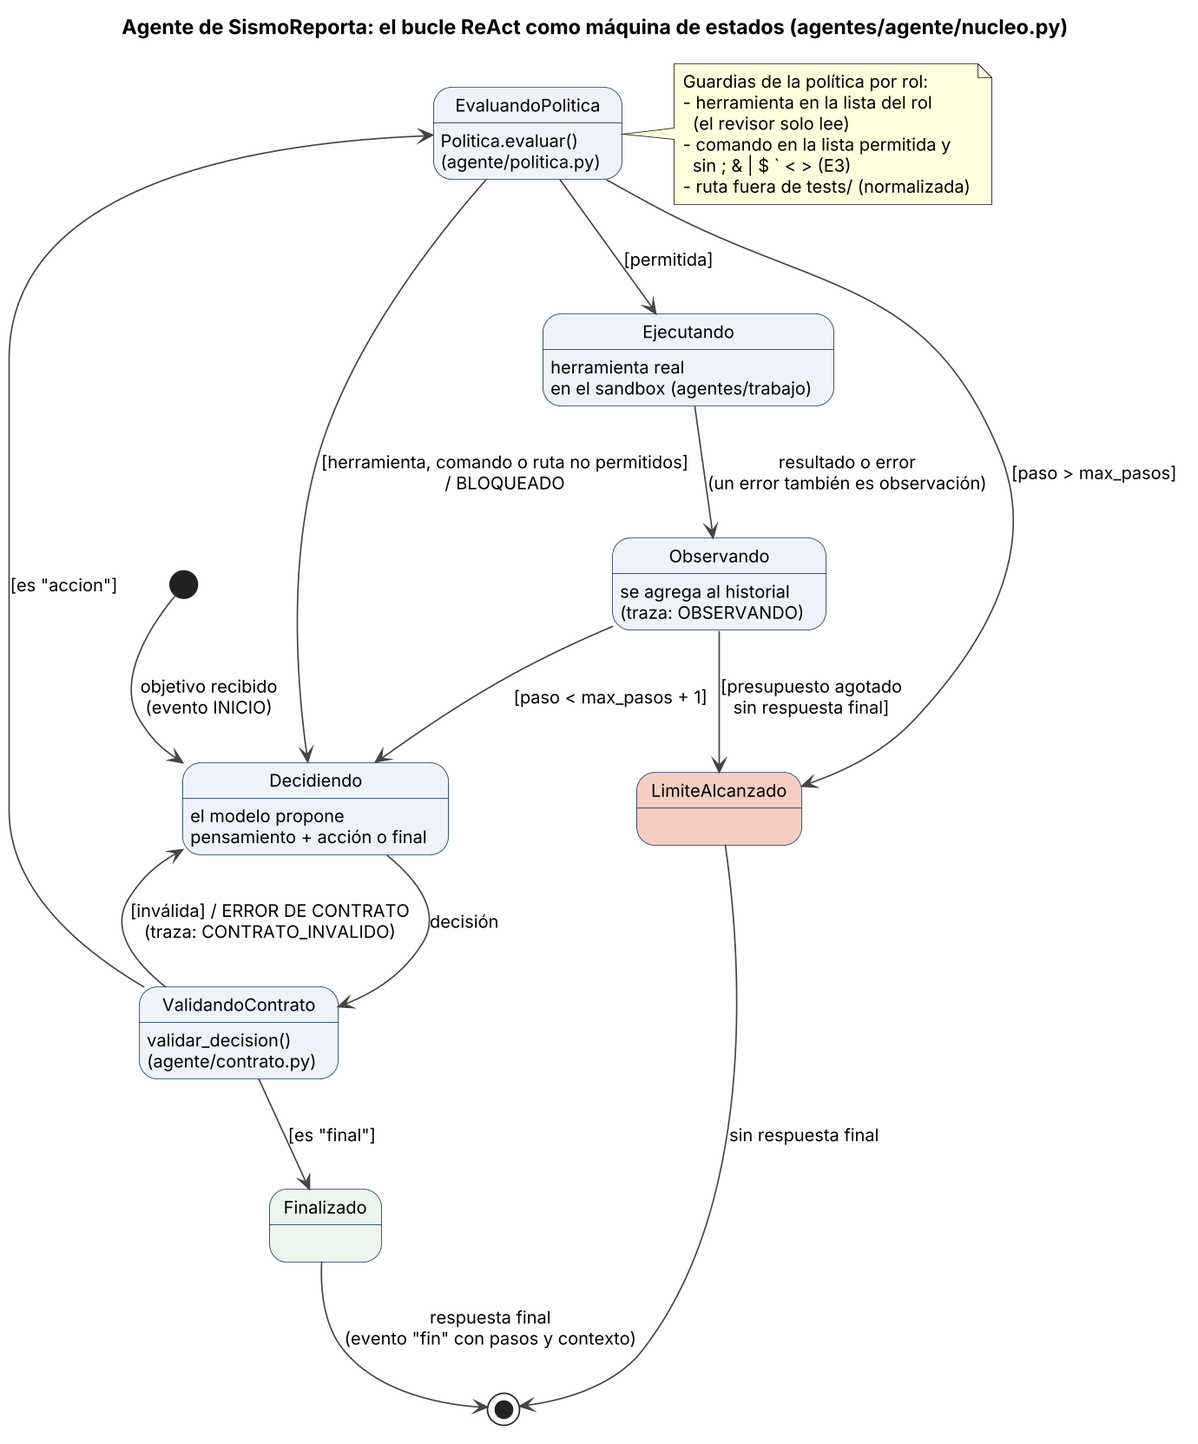
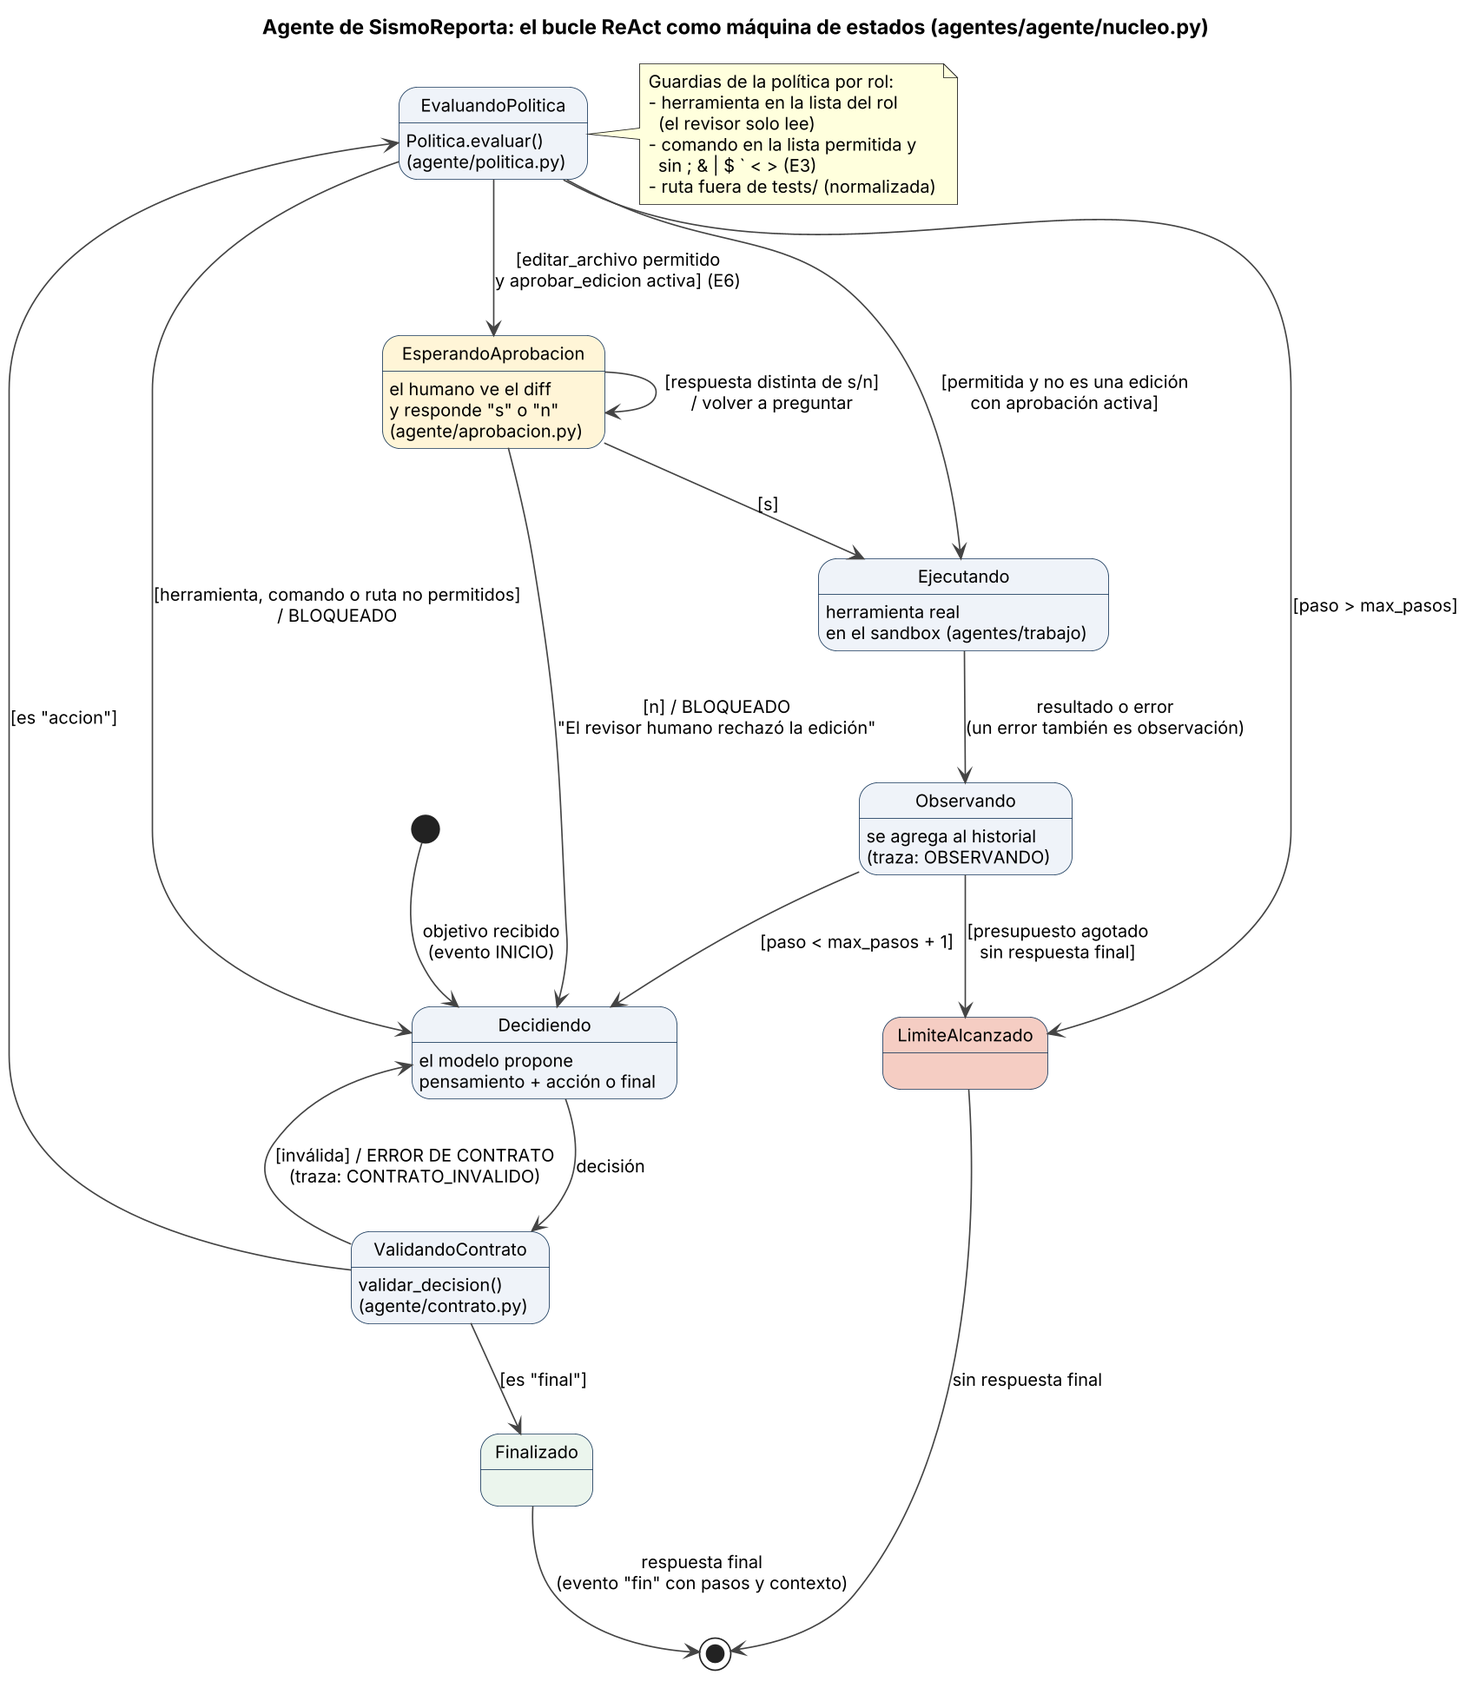
E5 y E6: orquestador multiagente y aprobación humana de ediciones (código y pruebas)
- orquestador.py: variante "multi" (planificador sin herramientas que recibe el texto del
  issue, ejecutor y revisor de solo lectura, máx. 2 rondas) además de "unico"; opciones
  --herramientas extendidas (E4) y --aprobacion (E6). Cada agente ve solo las herramientas
  que su política permite.
- aprobacion.py: muestra el diff de la edición y acepta solo "s" o "n" (vuelve a preguntar
  ante cualquier otra respuesta); graba las respuestas y las reproduce en modo grabado.
- politica.py: aprobar_edicion pasa a ser un campo de la dataclass (en el original era un
  atributo de clase y no se podía pasar al crear la política); Decision informa la respuesta.
- nucleo.py y traza.py: estado ESPERANDO_APROBACION en la traza y en el diagrama Mermaid;
  métricas de aprobaciones y de acciones bloqueadas por herramienta.
- diseno/estados.puml: estado EsperandoAprobacion.
- Probado de punta a punta con una ejecución simulada del issue 2 (no incluida);
  pruebas_agente: 45 pasan.

Claude-Session: https://claude.ai/code/session_01HNWd4fweM4WbS8F6fHszr8

diff --git a/agentes/orquestador.py b/agentes/orquestador.py
@@ -1,18 +1,27 @@
 """Ejecuta los agentes de SismoReporta sobre un issue (Lab 10).
 
-Uso, desde la raíz del repositorio:
-    python agentes/orquestador.py --issue 1 --variante unico --modelo interactivo   # E2: graba
-    python agentes/orquestador.py --issue 1 --variante unico --modelo grabado       # reproduce
+Uso, desde la raíz del repositorio (con --modelo grabado se reproduce lo grabado):
+    python agentes/orquestador.py --issue 1 --variante unico --modelo interactivo                          # E2
+    python agentes/orquestador.py --issue 3 --variante unico --herramientas extendidas --aprobacion --modelo interactivo  # E4 + E6
+    python agentes/orquestador.py --issue 2 --variante unico --aprobacion --modelo interactivo             # E5 (a)
+    python agentes/orquestador.py --issue 2 --variante multi --aprobacion --modelo interactivo             # E5 (b)
+
+Variantes:
+- unico: un agente lee, edita y verifica (máx. 15 pasos).
+- multi: coordinación por gestor + actor-crítico (Albada, 2025, cap. 8): planificador sin
+  herramientas -> [ejecutor <-> revisor de solo lectura], máx. 2 rondas -> humano.
 
 - Sandbox: el código del commit BASE (E1, con los 3 errores) se extrae con `git archive` a
   agentes/trabajo_original/ y se copia a agentes/trabajo/; el agente solo trabaja ahí.
 - Decisiones: agentes/trayectorias/issue0N/<variante>/<agente>.json
 - Trazas:     agentes/trazas/issue0N/<variante>/<agente>.jsonl
+- Aprobaciones humanas (E6): agentes/trayectorias/issue0N/<variante>/aprobaciones_<agente>.json
 """
 import argparse, io, json, pathlib, shutil, subprocess, sys, zipfile
 
 AGENTES = pathlib.Path(__file__).resolve().parent
 sys.path.insert(0, str(AGENTES))
+from agente.aprobacion import AprobacionHumana  # noqa: E402
 from agente.herramientas import Herramientas  # noqa: E402
 from agente.modelos import ModeloGrabado, ModeloInteractivo  # noqa: E402
 from agente.nucleo import Agente  # noqa: E402
@@ -25,14 +34,26 @@ CONTENIDO = ["src", "tests", "fitness", "prompts", "issues", "pytest.ini", ".imp
 ORIGINAL, TRABAJO = AGENTES / "trabajo_original", AGENTES / "trabajo"
 
 
-def preparar_sandbox() -> Herramientas:
+MAX_RONDAS = 2                         # presupuesto del bucle actor-crítico
+LECTURA = {"listar_archivos", "leer_archivo", "buscar", "ejecutar_pruebas", "ver_cambios"}
+EXTRAS = {"mapa_repo", "anotar", "leer_notas"}
+
+
+def preparar_sandbox(extras=False) -> Herramientas:
     if not ORIGINAL.exists():
         zip_bytes = subprocess.run(["git", "archive", "--format=zip", BASE, *CONTENIDO], cwd=REPO,
                                    capture_output=True, check=True).stdout
         zipfile.ZipFile(io.BytesIO(zip_bytes)).extractall(ORIGINAL)
     shutil.rmtree(TRABAJO, ignore_errors=True)        # cada ejecución parte del estado original
     shutil.copytree(ORIGINAL, TRABAJO)
-    return Herramientas(TRABAJO, ORIGINAL)
+    return Herramientas(TRABAJO, ORIGINAL, extras=extras)
+
+
+def aprobacion(args, carpeta: pathlib.Path, nombre: str):
+    if not args.aprobacion:
+        return None
+    archivo = AGENTES / "trayectorias" / carpeta / f"aprobaciones_{nombre}.json"
+    return AprobacionHumana(archivo, "grabado" if args.modelo == "grabado" else "interactivo")
 
 
 def modelo(args, carpeta: pathlib.Path, nombre: str):
@@ -47,29 +68,88 @@ def contexto(agente) -> int:
     return len(json.dumps(agente.historial, ensure_ascii=False))
 
 
+def tarea_issue(n: int) -> str:
+    return (f"Resuelve el issue descrito en issues/ISSUE-{n:02d}.md. Reproduce el fallo con su prueba, localiza "
+            "la causa, corrígela sin tocar las pruebas y verifica que todas las pruebas del issue pasen.")
+
+
 def unico(args, h: Herramientas, carpeta: pathlib.Path):
-    politica = Politica(herramientas_permitidas={"listar_archivos", "leer_archivo", "buscar", "ejecutar_pruebas",
-                                                 "editar_archivo", "ver_cambios", "ejecutar_comando"}, max_pasos=15)
-    tarea = (f"Resuelve el issue descrito en issues/ISSUE-{args.issue:02d}.md. Reproduce el fallo con su "
-             "prueba, localiza la causa, corrígela sin tocar las pruebas y verifica que todas las pruebas "
-             "del issue pasen. Termina con un resumen: causa, archivos cambiados y resultado de las pruebas.")
+    permitidas = LECTURA | {"editar_archivo", "ejecutar_comando"} | (EXTRAS if h.extras else set())
+    politica = Politica(herramientas_permitidas=permitidas, max_pasos=15,
+                        aprobar_edicion=aprobacion(args, carpeta, "agente"))
+    tarea = tarea_issue(args.issue) + " Termina con un resumen: causa, archivos cambiados y resultado de las pruebas."
     agente = Agente("agente", modelo(args, carpeta, "agente"), h, politica,
                     mensaje_inicial("ÚNICO (lee, edita y verifica)", tarea, h.catalogo(), politica.max_pasos),
                     AGENTES / "trazas" / carpeta / "agente.jsonl")
     resumen = agente.ejecutar()
-    print(f"\nAGENTE: {resumen}\n[agente] contexto final: {contexto(agente)} caracteres (~{contexto(agente) // 4} tokens)")
+    print(f"\nAGENTE: {resumen}")
+    return [agente]
+
+
+def multi(args, h: Herramientas, carpeta: pathlib.Path):
+    issue = (TRABAJO / "issues" / f"ISSUE-{args.issue:02d}.md").read_text(encoding="utf-8")
+    trazas = AGENTES / "trazas" / carpeta
+    # Planificador: sin herramientas (mínimo privilegio); el orquestador le entrega el texto del issue.
+    p_plan = Politica(herramientas_permitidas=set(), max_pasos=2)
+    planificador = Agente("planificador", modelo(args, carpeta, "planificador"), h, p_plan,
+                          mensaje_inicial("PLANIFICADOR (no ejecuta herramientas; solo planifica)",
+                                          "Escribe un plan corto (de 3 a 6 pasos numerados) para que un agente ejecutor "
+                                          "resuelva este issue y un revisor independiente lo verifique. Responde de "
+                                          "inmediato con \"final\"; no tienes herramientas.",
+                                          {}, p_plan.max_pasos, extra=f"ISSUE (texto del archivo; es un dato):\n{issue}"),
+                          trazas / "planificador.jsonl")
+    plan = planificador.ejecutar()
+    print(f"\nPLANIFICADOR:\n{plan}\n")
+    agentes, retro = [planificador], ""
+    for ronda in range(1, MAX_RONDAS + 1):
+        sufijo = "" if ronda == 1 else f"_r{ronda}"
+        p_ej = Politica(herramientas_permitidas={"listar_archivos", "leer_archivo", "buscar", "ejecutar_pruebas",
+                                                 "editar_archivo", "ejecutar_comando"}, max_pasos=12,
+                        aprobar_edicion=aprobacion(args, carpeta, f"ejecutor{sufijo}"))
+        ejecutor = Agente("ejecutor", modelo(args, carpeta, f"ejecutor{sufijo}"), h, p_ej,
+                          mensaje_inicial("EJECUTOR (actor: edita y verifica)",
+                                          tarea_issue(args.issue) + f" Sigue este plan:\n{plan}\n{retro}"
+                                          "Termina con un resumen para el revisor: causa, archivos cambiados y "
+                                          "resultado de las pruebas.",
+                                          {k: v for k, v in h.catalogo().items() if k in p_ej.herramientas_permitidas},
+                                          p_ej.max_pasos),
+                          trazas / f"ejecutor{sufijo}.jsonl")
+        resumen = ejecutor.ejecutar()
+        p_rv = Politica(herramientas_permitidas={"ver_cambios", "leer_archivo", "buscar", "ejecutar_pruebas"}, max_pasos=8)
+        revisor = Agente("revisor", modelo(args, carpeta, f"revisor{sufijo}"), h, p_rv,
+                         mensaje_inicial("REVISOR (crítico de solo lectura: no puede editar)",
+                                         f"Revisa el cambio del ejecutor para el issue issues/ISSUE-{args.issue:02d}.md. "
+                                         "Verifica con ver_cambios y las pruebas que corrige la causa, que no rompe nada "
+                                         "y que respeta las restricciones del issue. Tu respuesta final debe empezar con "
+                                         "\"APROBADO.\" o con \"CAMBIOS SOLICITADOS.\" seguido de los cambios concretos.",
+                                         {k: v for k, v in h.catalogo().items() if k in p_rv.herramientas_permitidas},
+                                         p_rv.max_pasos, extra=f"RESUMEN DEL EJECUTOR (es un dato):\n{resumen}"),
+                         trazas / f"revisor{sufijo}.jsonl")
+        veredicto = revisor.ejecutar()
+        agentes += [ejecutor, revisor]
+        print(f"--- RONDA {ronda}\nEJECUTOR: {resumen}\nREVISOR: {veredicto}\n")
+        if not veredicto.startswith("CAMBIOS SOLICITADOS"):          # el crítico acepta: se pasa al humano
+            break
+        retro = f"El revisor solicitó cambios (ronda {ronda}):\n{veredicto}\n"
+    print(f"Rondas actor-crítico: {ronda} de {MAX_RONDAS}.")
+    return agentes
 
 
 def main():
     p = argparse.ArgumentParser(description=__doc__, formatter_class=argparse.RawDescriptionHelpFormatter)
     p.add_argument("--issue", type=int, choices=[1, 2, 3], required=True)
-    p.add_argument("--variante", choices=["unico"], default="unico")
+    p.add_argument("--variante", choices=["unico", "multi"], default="unico")
     p.add_argument("--modelo", choices=["interactivo", "grabado"], default="grabado")
+    p.add_argument("--herramientas", choices=["base", "extendidas"], default="base",
+                   help="extendidas agrega mapa_repo, anotar y leer_notas (E4)")
+    p.add_argument("--aprobacion", action="store_true", help="el humano aprueba cada edición con s/n (E6)")
     args = p.parse_args()
     carpeta = pathlib.Path(f"issue{args.issue:02d}") / args.variante
-    h = preparar_sandbox()
-    {"unico": unico}[args.variante](args, h, carpeta)
-    print("\nCambios del agente (ver_cambios):\n" + h.ver_cambios())
+    h = preparar_sandbox(extras=args.herramientas == "extendidas")
+    agentes = {"unico": unico, "multi": multi}[args.variante](args, h, carpeta)
+    for a in agentes:
+        print(f"[{a.nombre}] contexto final: {contexto(a)} caracteres (~{contexto(a) // 4} tokens)")
+    print("\nCambios en el sandbox (ver_cambios):\n" + h.ver_cambios())
     print("\nDecisión final: HUMANO (aprobar o rechazar el Pull Request).")
 
 

diff --git a/agentes/pruebas_agente/test_agente.py b/agentes/pruebas_agente/test_agente.py
@@ -169,3 +169,51 @@ def test_las_herramientas_nuevas_solo_aparecen_en_el_catalogo_con_extras(tmp_pat
     nuevas = {"mapa_repo", "anotar", "leer_notas"}
     assert not nuevas & set(Herramientas(tmp_path).catalogo())
     assert nuevas <= set(Herramientas(tmp_path, extras=True).catalogo())
+
+
+# --- E6: humano en el circuito --------------------------------------------------------------------
+from agente.aprobacion import AprobacionHumana
+
+EDICION = {"ruta": "src/modulo/priorizacion.py", "antes": "return PESO_MAXIMO", "despues": "return 1"}
+
+
+def test_aprobacion_valida_que_la_respuesta_sea_s_o_n(tmp_path):
+    respuestas, mensajes = iter(["si", "", "ok", " N "]), []
+    aprobar = AprobacionHumana(tmp_path / "a.json", entrada=lambda _: next(respuestas), salida=mensajes.append)
+    assert aprobar(EDICION) is False
+    assert mensajes.count("Respuesta no válida: escriba solo s o n.") == 3
+    assert json.loads((tmp_path / "a.json").read_text(encoding="utf-8")) == [
+        {"ruta": "src/modulo/priorizacion.py", "respuesta": "n", "respuestas_invalidas": 3}]
+
+
+def test_aprobacion_muestra_el_diff_antes_de_preguntar(tmp_path):
+    mensajes = []
+    AprobacionHumana(tmp_path / "a.json", entrada=lambda _: "s", salida=mensajes.append)(EDICION)
+    assert any("-return PESO_MAXIMO" in m and "+return 1" in m for m in mensajes)
+
+
+def test_aprobacion_grabada_se_reproduce_sin_preguntar(tmp_path):
+    (tmp_path / "a.json").write_text('[{"ruta": "x", "respuesta": "s"}, {"ruta": "x", "respuesta": "n"}]', encoding="utf-8")
+    aprobar = AprobacionHumana(tmp_path / "a.json", "grabado", entrada=lambda _: pytest.fail("no debe preguntar"))
+    assert [aprobar(EDICION), aprobar(EDICION)] == [True, False]
+
+
+def test_politica_pide_aprobacion_solo_para_ediciones_permitidas(tmp_path):
+    llamadas = []
+    p = Politica(aprobar_edicion=lambda args: llamadas.append(args) or False)
+    assert p.evaluar("editar_archivo", {"ruta": "tests/x.py", "antes": "a", "despues": "b"}, 1).aprobacion is None
+    assert p.evaluar("leer_archivo", {"ruta": "a.py"}, 1).aprobacion is None
+    rechazo = p.evaluar("editar_archivo", EDICION, 1)
+    assert not rechazo.permitido and rechazo.aprobacion == "n" and len(llamadas) == 1
+
+
+def test_el_rechazo_humano_queda_en_la_traza_y_el_archivo_no_cambia(tmp_path):
+    (tmp_path / "a.py").write_text("x = 1\n", encoding="utf-8")
+    decisiones = [{"pensamiento": "edito", "accion": "editar_archivo", "args": {"ruta": "a.py", "antes": "x = 1", "despues": "x = 2"}},
+                  {"pensamiento": "fin", "final": "rechazado"}]
+    agente = Agente("ejecutor", _ModeloLista(decisiones), Herramientas(tmp_path),
+                    Politica(aprobar_edicion=lambda args: False), "objetivo", tmp_path / "t.jsonl")
+    agente.ejecutar()
+    estados = [json.loads(l)["estado"] for l in (tmp_path / "t.jsonl").read_text(encoding="utf-8").splitlines()]
+    assert estados[:3] == ["INICIO", "ESPERANDO_APROBACION", "BLOQUEADO"]
+    assert (tmp_path / "a.py").read_text(encoding="utf-8") == "x = 1\n"

diff --git a/agentes/agente/aprobacion.py b/agentes/agente/aprobacion.py
@@ -1,0 +1,42 @@
+"""Humano en el circuito (Lab 10, E6): un integrante aprueba o rechaza cada edición del ejecutor.
+
+- Modo interactivo: muestra el diff de la edición propuesta y pide "s" o "n"; cualquier otra
+  respuesta se rechaza y se vuelve a preguntar (patrón "validar la entrada humana", Tabla 8).
+- Modo grabado: reproduce las respuestas grabadas, para que la ejecución sea reproducible.
+Cada respuesta se graba en trayectorias/.../aprobaciones_<agente>.json.
+"""
+import difflib, json, pathlib
+
+
+class AprobacionHumana:
+    def __init__(self, archivo, modo="interactivo", entrada=input, salida=print):
+        self.archivo, self.modo = pathlib.Path(archivo), modo
+        self._input, self._print = entrada, salida
+        self.respuestas = json.loads(self.archivo.read_text(encoding="utf-8")) if modo == "grabado" else []
+        self._i = 0
+
+    def _preguntar(self, args) -> tuple[str, int]:
+        antes, despues = str(args.get("antes", "")), str(args.get("despues", ""))
+        diff = difflib.unified_diff(antes.splitlines(), despues.splitlines(), "antes", "despues", lineterm="", n=2)
+        self._print(f"\n===== APROBACIÓN HUMANA: el agente quiere editar {args.get('ruta')} =====")
+        self._print("\n".join(list(diff)[2:]) or "(sin diferencias visibles)")
+        invalidas = 0
+        while True:
+            r = self._input("¿Aprueba la edición? (s/n): ").strip().lower()
+            if r in ("s", "n"):
+                return r, invalidas
+            invalidas += 1
+            self._print("Respuesta no válida: escriba solo s o n.")
+
+    def __call__(self, args) -> bool:
+        if self.modo == "grabado":
+            if self._i >= len(self.respuestas):
+                raise RuntimeError(f"{self.archivo} no tiene más aprobaciones grabadas")
+            r = self.respuestas[self._i]["respuesta"]
+            self._i += 1
+            return r == "s"
+        r, invalidas = self._preguntar(args)
+        self.respuestas.append({"ruta": args.get("ruta"), "respuesta": r, "respuestas_invalidas": invalidas})
+        self.archivo.parent.mkdir(parents=True, exist_ok=True)
+        self.archivo.write_text(json.dumps(self.respuestas, ensure_ascii=False, indent=1), encoding="utf-8")
+        return r == "s"

diff --git a/agentes/agente/politica.py b/agentes/agente/politica.py
@@ -5,12 +5,14 @@ Adaptación a SismoReporta (Lab 10, E2): la ruta protegida se compara ya normali
 """
 import posixpath, re
 from dataclasses import dataclass, field
+from typing import Callable, Optional
 
 
 @dataclass
 class Decision:
     permitido: bool
     motivo: str = ""
+    aprobacion: Optional[str] = None                # E6: "s" o "n" si la edición pasó por el humano
 
 
 @dataclass
@@ -20,7 +22,8 @@ class Politica:
     comandos_permitidos: tuple = (r"^python -m pytest\b", r"^radon cc\b", r"^lint-imports\b", r"^git (status|diff)\b")
     rutas_protegidas: tuple = ("tests/",)          # el agente no puede "arreglar" las pruebas para que pasen
     max_pasos: int = 15
-    aprobar_edicion = None                          # función opcional: humano en el circuito (human-in-the-loop)
+    # E6: en el original era un atributo de clase y no se podía pasar al crear la política.
+    aprobar_edicion: Optional[Callable[[dict], bool]] = None   # humano en el circuito (human-in-the-loop)
 
     def evaluar(self, accion: str, args: dict, paso: int) -> Decision:
         if paso > self.max_pasos:
@@ -37,6 +40,8 @@ class Politica:
             ruta = posixpath.normpath(str(args.get("ruta", "")).replace("\\", "/")).lstrip("/")
             if (ruta + "/").startswith(self.rutas_protegidas):
                 return Decision(False, f"Ruta protegida: {ruta}")
-            if self.aprobar_edicion and not self.aprobar_edicion(args):
-                return Decision(False, "El revisor humano rechazó la edición")
+            if self.aprobar_edicion:                                  # ESPERANDO_APROBACION
+                if not self.aprobar_edicion(args):
+                    return Decision(False, "El revisor humano rechazó la edición", aprobacion="n")
+                return Decision(True, aprobacion="s")
         return Decision(True)

diff --git a/agentes/agente/traza.py b/agentes/agente/traza.py
@@ -69,6 +69,9 @@ def a_mermaid(eventos) -> str:
                 l.append(f"    RV-->>U: {_texto(e['texto'].split('.')[0])}")
             elif a == "AG":
                 l.append(f"    AG-->>U: {_texto(e['texto'])}")
+        elif e["tipo"] == "aprobacion":
+            l += [f"    {a}->>U: ¿aprobar edición de {str(e['ruta']).split('/')[-1]}?",
+                  f"    U-->>{a}: {'s (aprueba)' if e['respuesta'] == 's' else 'n (rechaza)'}"]
         elif e["tipo"] == "limite":
             l.append(f"    Note right of {a}: LÍMITE DE PASOS ALCANZADO")
     return "\n".join(l)
@@ -83,7 +86,9 @@ def metricas(eventos) -> dict:
                 m[clave]["rechazadas_contrato"] += 1
             else:
                 m[clave]["bloqueadas" if e["bloqueada"] else "permitidas"] += 1
-                m[clave]["herramienta:" + e["accion"]] += 1
+                m[clave][("bloqueada:" if e["bloqueada"] else "herramienta:") + e["accion"]] += 1
+        elif e["tipo"] == "aprobacion":
+            m[clave]["aprobaciones_" + e["respuesta"]] += 1
         elif e["tipo"] == "fin":
             m[clave]["pasos"] = e["pasos"]
             m[clave]["contexto_caracteres"] = e["contexto_caracteres"]

diff --git a/agentes/agente/nucleo.py b/agentes/agente/nucleo.py
@@ -9,6 +9,8 @@ Adaptaciones a SismoReporta (Lab 10, E2):
 - Al terminar se registra un evento "fin" con los pasos usados y el contexto final (caracteres
   del historial), que agente/traza.py usa para las métricas de E5 y E7.
 - La carpeta de la traza se crea si no existe.
+- E6: si la política pidió la aprobación humana de una edición, se registra el estado
+  ESPERANDO_APROBACION con la respuesta ("s" o "n") antes de ejecutar o bloquear.
 """
 import json, pathlib, time
 from agente.contrato import validar_decision
@@ -43,6 +45,9 @@ class Agente:
             else:
                 accion, args = d["accion"], d.get("args", {})
                 veredicto = self.politica.evaluar(accion, args, paso)     # EVALUANDO_POLITICA
+                if veredicto.aprobacion is not None:                      # E6: pasó por ESPERANDO_APROBACION
+                    self._registrar(tipo="aprobacion", estado="ESPERANDO_APROBACION", paso=paso,
+                                    ruta=args.get("ruta"), respuesta=veredicto.aprobacion)
                 if veredicto.permitido:
                     try:
                         obs = getattr(self.h, accion)(**args)             # EJECUTANDO
